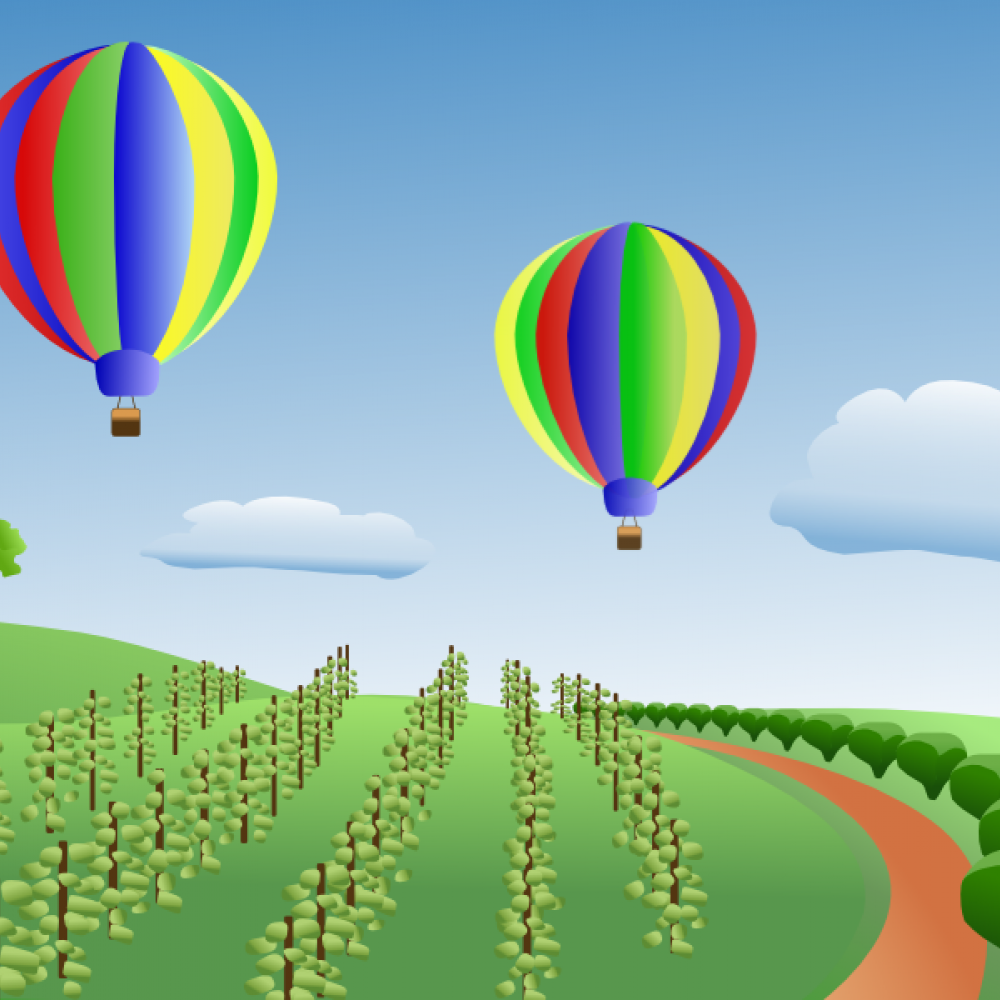
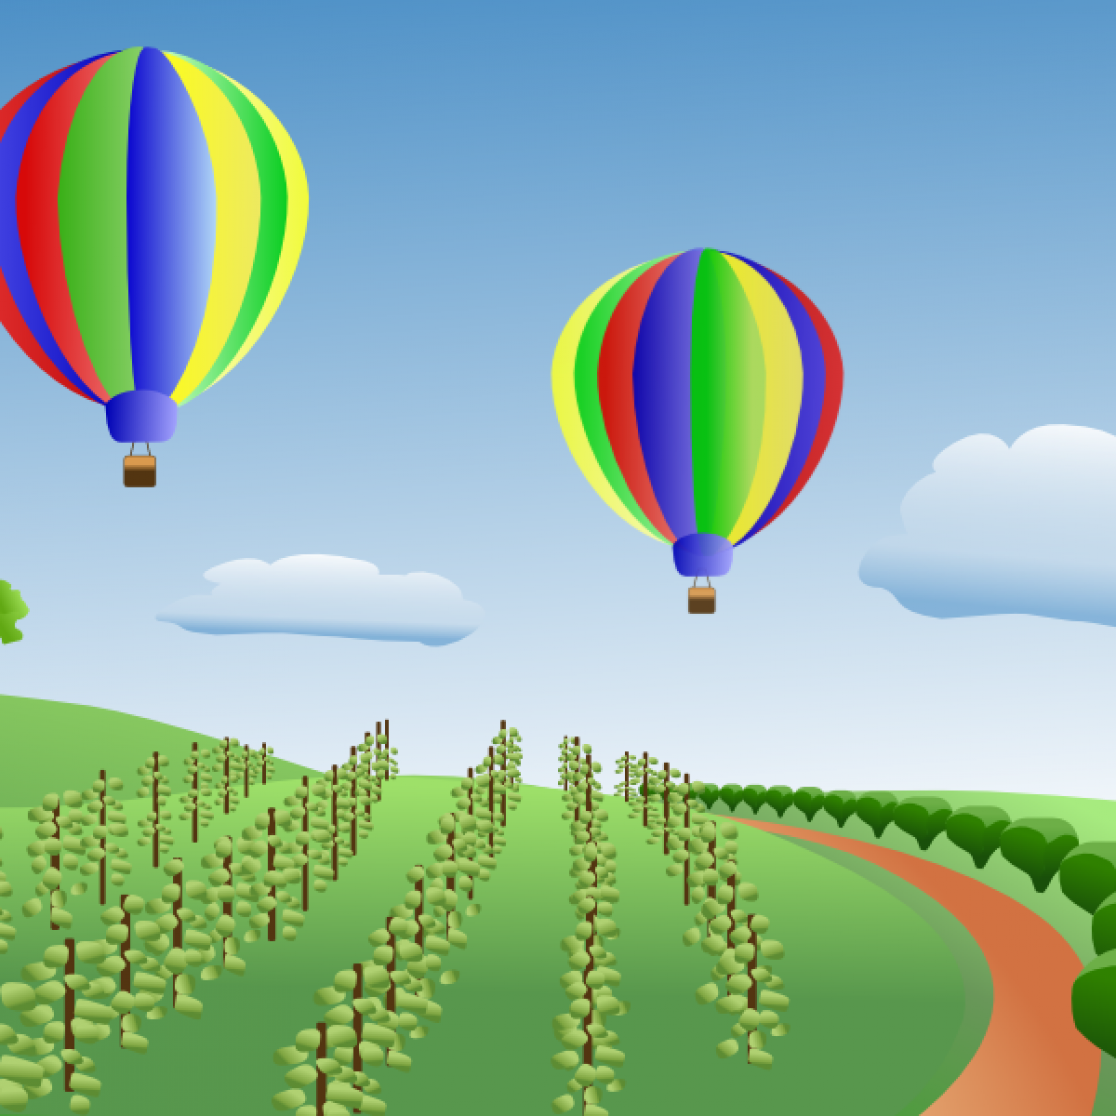
Global css --global img styles. New responsive images add

diff --git a/sites/all/themes/omegaeco/css/global.css b/sites/all/themes/omegaeco/css/global.css
@@ -41,6 +41,12 @@ a:link, a:visited, li a.active {
 a:hover {
 	text-decoration: none;
 }
+img {
+	width: 100%;
+	height: auto;
+}
+
+/* ==== */
 #section-header{
     min-height: 58px;
 }

diff --git a/sites/all/themes/omegaeco/templates/node--block_image.tpl.php b/sites/all/themes/omegaeco/templates/node--block_image.tpl.php
@@ -1,0 +1,92 @@
+<article<?php print $attributes; ?>>
+   <?php print $user_picture; ?>
+   <?php print render($title_prefix); ?>
+   <?php if (!$page && $title): ?>
+   <header>
+      <h2<?php print $title_attributes; ?>><a href="<?php print $node_url ?>" title="<?php print $title ?>"><?php print $title ?></a></h2>
+   </header>
+   <?php endif; ?>
+   <?php print render($title_suffix); ?>
+   <?php if ($display_submitted): ?>
+   <footer class="submitted"><?php print $date; ?> -- <?php print $name; ?>the footer</footer>
+   <?php endif; ?>  
+   <div<?php print $content_attributes; ?>>
+      <?php
+         // We hide the comments and links now so that we can render them later.
+         hide($content['comments']);
+         hide($content['links']);
+         hide($content['field_image_block']);
+         hide($content['field_sub_title_block']);
+         hide($content['field_description_block']);
+         print render($content);
+         ?>
+
+     <style type="text/css">
+     .block_image {
+  position: relative;
+  margin:0.7em;
+  border: 1px solid #666666;  
+  border-radius: 7px; 
+  -moz-border-radius: 7px; 
+  -webkit-border-radius: 7px;
+  overflow: hidden;
+}
+/*.block_image { this is a fix for Safari & other mobile devices. This will force Safari to roud corners; by using the 'clear:both;" attribute.
+  overflow: hidden;
+  clear: both;
+  border-radius: 7px; 
+  -moz-border-radius: 7px; 
+  -webkit-border-radius: 7px;
+}*/
+.block_image .title_holder {
+  background: url("../sites/all/themes/omegaeco/images/content_bg.png");
+  padding: 0.2em 0;
+  bottom: 0;
+  overflow: hidden;
+  text-align: left;
+  position: absolute;
+  width: 100%;
+}
+.block_image .title_holder h4 {
+  line-height: 1.5em;
+  font-size: 1.5em;
+  font-weight: normal;
+  padding-left: 0.4em;
+  padding-right: 0.4em;
+}
+.block_image .title_holder h5 {
+  line-height: 1.2em;
+  font-size: 1.1em;
+  font-weight: normal;
+  padding-left: 0.5em;
+  padding-right: 0.5em;
+  padding-bottom: 0.5em;
+}
+.block_image img  {
+  width: 100%;
+  height: auto;
+}
+     
+     </style>
+
+     
+
+       <div class="block_image">
+         <?php print render($content['field_image_block']); ?>
+
+
+          <div class="title_holder">
+
+          <h4><?php print render($content['field_sub_title_block']); ?></h4>
+          <h5><?php print render($content['field_description_block']); ?></h5>
+
+          </div>
+
+       </div> 
+
+
+      <!--  <h3>Eco Tech</h3><div class="block_img_holder"><div class="posn_type"><img alt="Electric powered skinoe" class="block_img" src="sites/default/files/images/front_page_blocks/eco-page-front-block.jpg" title="Electric powered skinoe" /><div class="title_holder"><h4>Electric Skinoe</h4><p>Demonstrates the use of &#39;skinoe&#39; driven by an electric outboard motor.</p></div></div></div> -->
+        
+     
+   </div>
+</article>
